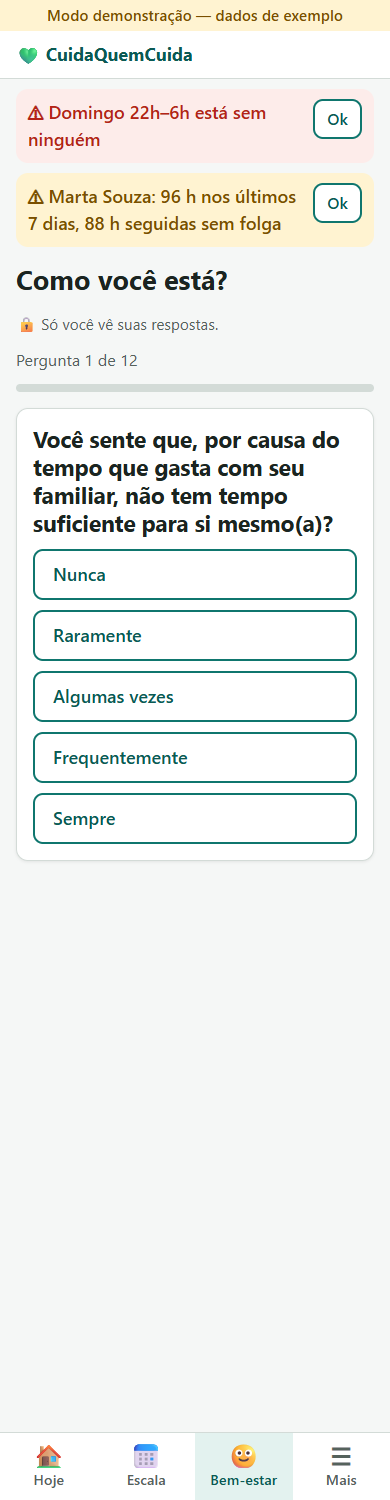
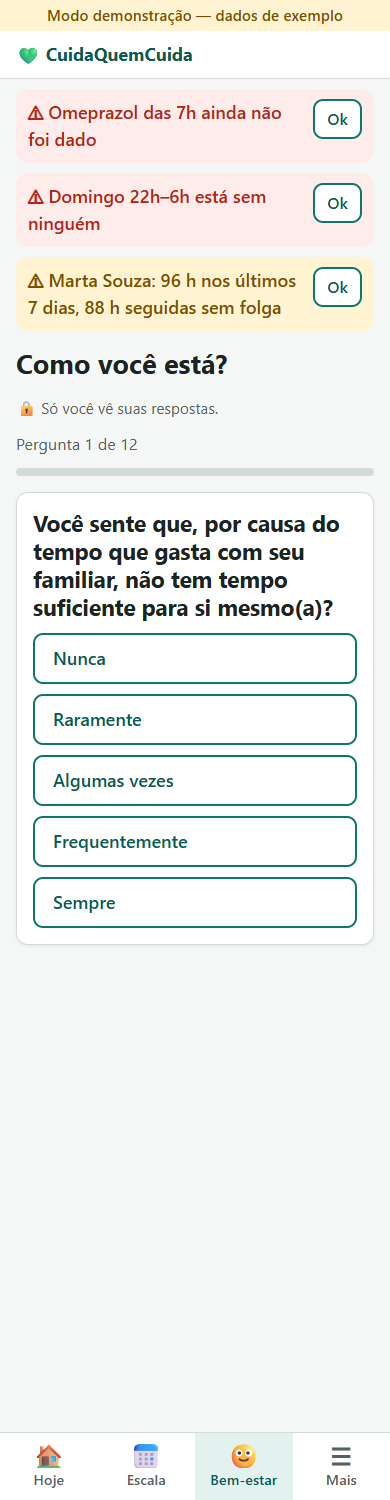
fix: alertas resolvidos saem da lista e menos idas ao banco por tela

Changed region(s): [[0.0308, 0.0613, 0.9846, 0.6133]]

diff --git a/codigo/src/main/resources/web/js/rotas.js b/codigo/src/main/resources/web/js/rotas.js
@@ -34,12 +34,16 @@ export async function carregarContexto() {
   montarSeletor();
 }
 
-/** Mostra até 3 alertas não lidos do paciente atual no topo da tela. */
+/** Busca os alertas não lidos do paciente atual e mostra no topo da tela. */
 export async function atualizarAlertas() {
-  const caixa = document.getElementById('alertas');
   const paciente = pacienteAtual();
-  if (!estado.token || !paciente) { caixa.replaceChildren(); return; }
-  const alertas = await chamar('GET', `/alertas?pacienteId=${paciente.id}`).catch(() => []);
+  if (!estado.token || !paciente) { mostrarAlertas([]); return; }
+  mostrarAlertas(await chamar('GET', `/alertas?pacienteId=${paciente.id}`).catch(() => []));
+}
+
+/** Mostra até 3 alertas no topo (a tela Hoje usa os que já vieram no /hoje, sem pedir de novo). */
+export function mostrarAlertas(alertas) {
+  const caixa = document.getElementById('alertas');
   caixa.replaceChildren(...alertas.slice(0, 3).map((a) => el('div', {
     class: 'alerta' + (a.prioridade < 60 ? ' atencao' : ''), role: 'alert',
   },

diff --git a/codigo/src/main/resources/web/js/telas/hoje.js b/codigo/src/main/resources/web/js/telas/hoje.js
@@ -1,7 +1,7 @@
 // Tela "Hoje": o que fazer agora no turno, com um botão por tarefa.
 import { chamar } from '../api.js';
 import { estado, pacienteAtual } from '../estado.js';
-import { registrarTela, ir } from '../rotas.js';
+import { registrarTela, ir, mostrarAlertas } from '../rotas.js';
 import {
   el, preencher, campo, tentar, mostrarAviso, formatarHora, formatarIntervalo, formatarDiaSemana, paraData, isoData,
 } from '../ui.js';
@@ -127,6 +127,7 @@ function linhaItem(item, pacienteId, recarregar) {
 registrarTela('/hoje', async (conteudo) => {
   const paciente = pacienteAtual();
   const dados = await chamar('GET', `/hoje?pacienteId=${paciente.id}`);
+  mostrarAlertas(dados.alertas);
   const recarregar = () => ir('/hoje');
   const primeiroNome = (estado.pessoa?.nome || '').split(' ')[0];
 

diff --git a/codigo/src/main/resources/web/js/app.js b/codigo/src/main/resources/web/js/app.js
@@ -56,7 +56,7 @@ async function mostrarRota() {
       el('p', {}, erro.message || 'Tente de novo em instantes.'),
       el('button', { onclick: mostrarRota }, 'Tentar de novo')));
   }
-  if (comMenu) atualizarAlertas();
+  if (comMenu && rota !== '/hoje') atualizarAlertas();   // a tela Hoje já recebe os alertas no /hoje
   else document.getElementById('alertas').replaceChildren();
   conteudo.focus({ preventScroll: true });
   window.scrollTo(0, 0);

diff --git a/codigo/src/main/java/br/com/cuidaquemcuida/infra/Conexao.java b/codigo/src/main/java/br/com/cuidaquemcuida/infra/Conexao.java
@@ -8,25 +8,32 @@ import java.util.concurrent.LinkedBlockingQueue;
 
 /**
  * Conexões JDBC com o PostgreSQL (Supabase). Abrir uma conexão nova a cada comando custaria centenas de
- * milissegundos (TLS até o servidor), então as conexões livres são reaproveitadas.
+ * milissegundos (TLS até o servidor), então as conexões livres são reaproveitadas. Só se confere se a conexão
+ * ainda está viva quando ela ficou parada por mais de 30 s (conferir sempre seria uma ida extra ao banco por comando).
  * ponytail: pool mínimo sem limite de espera; trocar por HikariCP se houver muitos acessos simultâneos.
  */
 public final class Conexao {
 
     private static final int MAX_LIVRES = 8;
-    private static final BlockingQueue<Connection> LIVRES = new LinkedBlockingQueue<>();
+    private static final long CONFERIR_SE_PARADA_MS = 30_000;
+
+    private record Livre(Connection conexao, long devolvidaEm) {
+    }
+
+    private static final BlockingQueue<Livre> LIVRES = new LinkedBlockingQueue<>();
 
     private Conexao() {
     }
 
-    /** Pega uma conexão (reaproveitada se ainda estiver válida). Devolva com {@link #devolver}. */
+    /** Pega uma conexão (reaproveitada se ainda estiver boa). Devolva com {@link #devolver}. */
     public static Connection pegar() throws SQLException {
-        Connection conexao;
-        while ((conexao = LIVRES.poll()) != null) {
-            if (conexao.isValid(2)) {
-                return conexao;
+        Livre livre;
+        while ((livre = LIVRES.poll()) != null) {
+            boolean recente = System.currentTimeMillis() - livre.devolvidaEm() < CONFERIR_SE_PARADA_MS;
+            if (!livre.conexao().isClosed() && (recente || livre.conexao().isValid(2))) {
+                return livre.conexao();
             }
-            fecharSemErro(conexao);
+            fecharSemErro(livre.conexao());
         }
         return DriverManager.getConnection(
                 Config.obrigatorio("db.url"), Config.obrigatorio("db.usuario"), Config.obrigatorio("db.senha"));
@@ -41,9 +48,10 @@ public final class Conexao {
                 conexao.rollback();
                 conexao.setAutoCommit(true);
             }
-            if (!LIVRES.offer(conexao) || LIVRES.size() > MAX_LIVRES) {
-                LIVRES.remove(conexao);
+            if (LIVRES.size() >= MAX_LIVRES) {
                 fecharSemErro(conexao);
+            } else {
+                LIVRES.offer(new Livre(conexao, System.currentTimeMillis()));
             }
         } catch (SQLException e) {
             fecharSemErro(conexao);

diff --git a/codigo/src/main/java/br/com/cuidaquemcuida/service/MedicacaoService.java b/codigo/src/main/java/br/com/cuidaquemcuida/service/MedicacaoService.java
@@ -16,8 +16,10 @@ import br.com.cuidaquemcuida.resource.Dtos.MedicamentoDto;
 import br.com.cuidaquemcuida.resource.Dtos.RegraDto;
 import java.time.LocalDate;
 import java.time.LocalDateTime;
+import java.util.LinkedHashMap;
 import java.util.List;
 import java.util.Map;
+import java.util.Set;
 import java.util.function.Function;
 import java.util.stream.Collectors;
 
@@ -80,13 +82,30 @@ public final class MedicacaoService {
         AuditoriaDao.registrar(eu, AuditoriaDao.EXCLUIR, "medicamento", medicamentoId, atual.getNome());
     }
 
-    /** Cria as doses previstas do dia que ainda não existem (pode ser chamado várias vezes: não duplica). */
+    /**
+     * Cria as doses previstas do dia que ainda não existem (pode ser chamado várias vezes: não duplica).
+     * Primeiro lê o que já existe e só insere o que falta, para não mandar dezenas de INSERTs a cada tela aberta;
+     * o ON CONFLICT do banco continua garantindo que duas chamadas ao mesmo tempo não dupliquem.
+     */
     public static void garantirDoses(long pacienteId, LocalDate dia) {
         List<Medicamento> remedios = MedicamentoDao.doPaciente(pacienteId);
-        Sql.transacao(() -> {
-            for (Medicamento m : remedios) {
-                DoseDao.garantir(m.getId(), m.horariosEntre(dia.atStartOfDay(), dia.plusDays(1).atStartOfDay()));
+        Set<String> existentes = DoseDao.doPacienteNoDia(pacienteId, dia).stream()
+                .map(d -> d.getMedicamentoId() + "@" + d.getPrevistoPara())
+                .collect(Collectors.toSet());
+        Map<Long, List<LocalDateTime>> faltando = new LinkedHashMap<>();
+        for (Medicamento m : remedios) {
+            List<LocalDateTime> novos = m.horariosEntre(dia.atStartOfDay(), dia.plusDays(1).atStartOfDay()).stream()
+                    .filter(h -> !existentes.contains(m.getId() + "@" + h))
+                    .toList();
+            if (!novos.isEmpty()) {
+                faltando.put(m.getId(), novos);
             }
+        }
+        if (faltando.isEmpty()) {
+            return;
+        }
+        Sql.transacao(() -> {
+            faltando.forEach(DoseDao::garantir);
             return null;
         });
     }

diff --git a/codigo/src/main/java/br/com/cuidaquemcuida/service/TarefaService.java b/codigo/src/main/java/br/com/cuidaquemcuida/service/TarefaService.java
@@ -12,8 +12,10 @@ import br.com.cuidaquemcuida.resource.Dtos.ExecucaoDto;
 import br.com.cuidaquemcuida.resource.Dtos.TarefaDto;
 import java.time.LocalDate;
 import java.time.LocalDateTime;
+import java.util.LinkedHashMap;
 import java.util.List;
 import java.util.Map;
+import java.util.Set;
 import java.util.function.Function;
 import java.util.stream.Collectors;
 
@@ -68,13 +70,26 @@ public final class TarefaService {
         AuditoriaDao.registrar(eu, AuditoriaDao.EXCLUIR, "tarefa_cuidado", tarefaId, atual.getTitulo());
     }
 
-    /** Cria as execuções do dia que ainda não existem (não duplica). */
+    /** Cria as execuções do dia que ainda não existem (não duplica). Lê antes e só insere o que falta. */
     public static void garantirExecucoes(long pacienteId, LocalDate dia) {
         List<TarefaCuidado> tarefas = TarefaDao.doPaciente(pacienteId);
-        Sql.transacao(() -> {
-            for (TarefaCuidado t : tarefas) {
-                TarefaDao.garantirExecucoes(t.getId(), t.horariosDoDia(dia));
+        Set<String> existentes = TarefaDao.execucoesNoDia(pacienteId, dia).stream()
+                .map(e -> e.getTarefaId() + "@" + e.getPrevistaPara())
+                .collect(Collectors.toSet());
+        Map<Long, List<LocalDateTime>> faltando = new LinkedHashMap<>();
+        for (TarefaCuidado t : tarefas) {
+            List<LocalDateTime> novas = t.horariosDoDia(dia).stream()
+                    .filter(h -> !existentes.contains(t.getId() + "@" + h))
+                    .toList();
+            if (!novas.isEmpty()) {
+                faltando.put(t.getId(), novas);
             }
+        }
+        if (faltando.isEmpty()) {
+            return;
+        }
+        Sql.transacao(() -> {
+            faltando.forEach(TarefaDao::garantirExecucoes);
             return null;
         });
     }

diff --git a/codigo/src/test/java/br/com/cuidaquemcuida/service/AlertaServiceTest.java b/codigo/src/test/java/br/com/cuidaquemcuida/service/AlertaServiceTest.java
@@ -1,0 +1,35 @@
+package br.com.cuidaquemcuida.service;
+
+import static org.junit.jupiter.api.Assertions.assertEquals;
+import static org.junit.jupiter.api.Assertions.assertFalse;
+
+import br.com.cuidaquemcuida.model.alerta.Alerta;
+import br.com.cuidaquemcuida.model.alerta.AlertaMedicacao;
+import br.com.cuidaquemcuida.model.alerta.AlertaSobrecarga;
+import br.com.cuidaquemcuida.model.alerta.AlertaTurnoVago;
+import br.com.cuidaquemcuida.model.alerta.TipoAlerta;
+import java.time.LocalDate;
+import java.time.LocalDateTime;
+import java.util.List;
+import org.junit.jupiter.api.Test;
+
+class AlertaServiceTest {
+
+    private static final LocalDateTime DOMINGO_22H = LocalDateTime.of(2026, 11, 15, 22, 0);
+
+    @Test
+    void chaveEhTipoEReferenciaDoAlerta() {
+        List<Alerta> alertas = List.of(
+                new AlertaMedicacao(TipoAlerta.DOSE_ATRASADA, 1, 2, 301, "Losartana", DOMINGO_22H),
+                new AlertaTurnoVago(1, 2, DOMINGO_22H, DOMINGO_22H.plusHours(8)));
+        assertEquals(List.of("DOSE_ATRASADA|dose:301", "TURNO_VAGO|vago:2026-11-15T22:00"), AlertaService.chaves(alertas));
+    }
+
+    @Test
+    void nenhumaChaveTemOSeparadorUsadoNoSql() {
+        List<Alerta> alertas = List.of(
+                new AlertaTurnoVago(1, 2, DOMINGO_22H.plusMinutes(17).plusSeconds(3), DOMINGO_22H.plusHours(8)),
+                new AlertaSobrecarga(1, 2, 7, "Marta Souza", 96, 88, LocalDate.of(2026, 11, 14)));
+        AlertaService.chaves(alertas).forEach(chave -> assertFalse(chave.contains(";"), chave));
+    }
+}

diff --git a/codigo/src/main/java/br/com/cuidaquemcuida/dao/AlertaDao.java b/codigo/src/main/java/br/com/cuidaquemcuida/dao/AlertaDao.java
@@ -33,6 +33,22 @@ public final class AlertaDao {
                 rs.getInt("prioridade"), rs.getObject("criado_em", LocalDateTime.class), false), pessoaId, pacienteId);
     }
 
+    /**
+     * Alertas calculados (dose, tarefa, turno vago, conflito, sobrecarga) que não valem mais (a dose foi dada,
+     * alguém cobriu o turno...) saem da lista: são marcados como lidos. Os gravados na hora do fato
+     * (sinal vital e pedido de ajuda) só saem quando a pessoa toca em "Ok".
+     *
+     * @param chavesAtivas "TIPO|referencia" de cada alerta que ainda vale agora
+     */
+    public static void marcarResolvidos(long pessoaId, long pacienteId, List<String> chavesAtivas) {
+        Sql.executar("""
+                UPDATE alerta SET lido_em = now()
+                 WHERE destinatario_id = ? AND paciente_id = ? AND lido_em IS NULL
+                   AND tipo NOT IN ('SINAL_FORA_FAIXA', 'SINAL_FORA_CURVA', 'PEDIDO_AJUDA')
+                   AND NOT (tipo || '|' || referencia = ANY (string_to_array(?, ';')))
+                """, pessoaId, pacienteId, String.join(";", chavesAtivas));
+    }
+
     public static int marcarLido(long id, long pessoaId) {
         return Sql.executar("UPDATE alerta SET lido_em = now() WHERE id = ? AND destinatario_id = ?", id, pessoaId);
     }

diff --git a/codigo/src/main/java/br/com/cuidaquemcuida/service/AlertaService.java b/codigo/src/main/java/br/com/cuidaquemcuida/service/AlertaService.java
@@ -108,7 +108,13 @@ public final class AlertaService {
         }
 
         meus.forEach(AlertaDao::gravar);
+        AlertaDao.marcarResolvidos(eu, pacienteId, chaves(meus));   // o que deixou de valer some da lista
         return AlertaDao.naoLidos(eu, pacienteId);   // inclui os gravados na hora do fato (sinal vital, pedido de ajuda)
+    }
+
+    /** "TIPO|referencia" de cada alerta: a mesma chave única da tabela (sem o destinatário). */
+    static List<String> chaves(List<Alerta> alertas) {
+        return alertas.stream().map(a -> a.getTipo().name() + "|" + a.getReferencia()).toList();
     }
 
     public static void marcarLido(long eu, long alertaId) {
